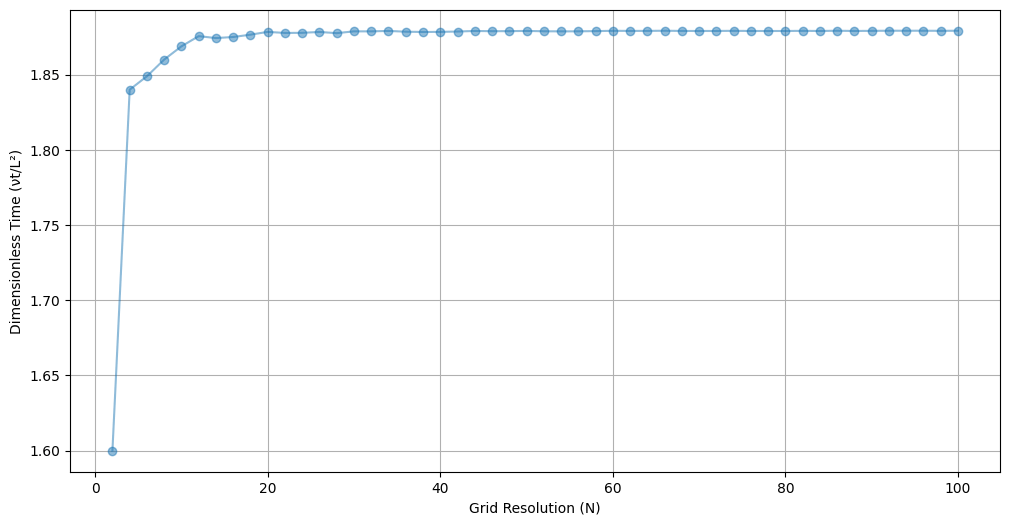
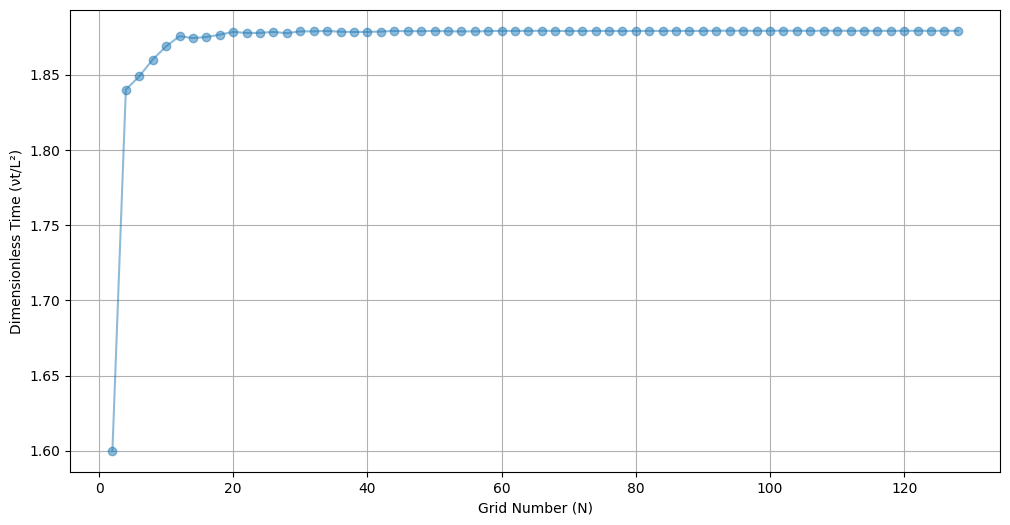
:pencil2: Change "resolution" to "number"

diff --git a/mae5005/code/2/unidirectional_flow.py b/mae5005/code/2/unidirectional_flow.py
@@ -36,7 +36,7 @@ def plot_dimensionless_time(Ns: t.List[int], nutLs: t.List[float], alpha: float 
     fig, ax = plt.subplots(1, figsize=(12, 6))
     ax.plot(Ns, nutLs, 'o-', alpha=alpha)
     ax.grid()
-    ax.set_xlabel('Grid Resolution (N)')
+    ax.set_xlabel('Grid Number (N)')
     ax.set_ylabel('Dimensionless Time (νt/L²)')
     fig.savefig('dimensionless_time.png', bbox_inches='tight', transparent=True)
 
@@ -49,7 +49,7 @@ def plot_error(norms: np.ndarray, Ns: np.ndarray, nutLs: np.ndarray) -> None:
     ax.set_title(r'$\log_{10}||\mathrm{numerical}-\mathrm{analytical}||_2$')
     ax.set_xticks(np.arange(Ns.size), rotation=90, labels=Ns)
     ax.set_yticks(np.arange(nutLs.size), labels=map('{:.6f}'.format, nutLs))
-    ax.set_xlabel('Grid Resolution (N)')
+    ax.set_xlabel('Grid Number (N)')
     ax.set_ylabel('Dimensionless Time (νt/L²)')
     fig.colorbar(im, ax=ax)
     fig.savefig('error.png', bbox_inches='tight', transparent=True)
@@ -63,7 +63,7 @@ if __name__ == '__main__':
         numerical, analytical = np.loadtxt('numerical.dat'), np.loadtxt('analytical.dat')
         plot_solution(numerical, analytical, f'{N}-{nutL}.png')
     # 2. find out at what dimensionless time, νt/L², the velocity at the center of the channel (y=0) reaches the value of 0.99u₀
-    Ns = list(range(2, 101, 2))
+    Ns = list(range(2, 129, 2))
     nutLs = [None] * len(Ns)
     pattern = re.compile(r'\[N\][^\n]+\n')
     for ith, N in enumerate(Ns):
